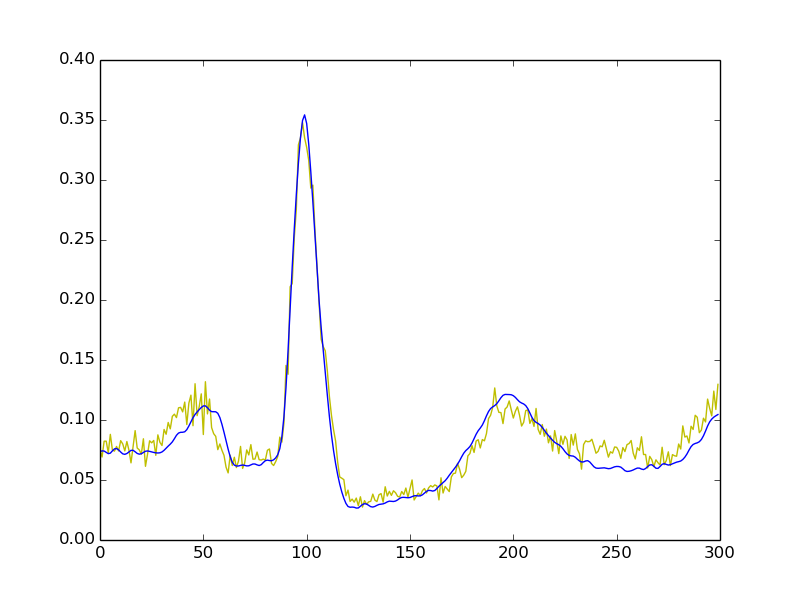
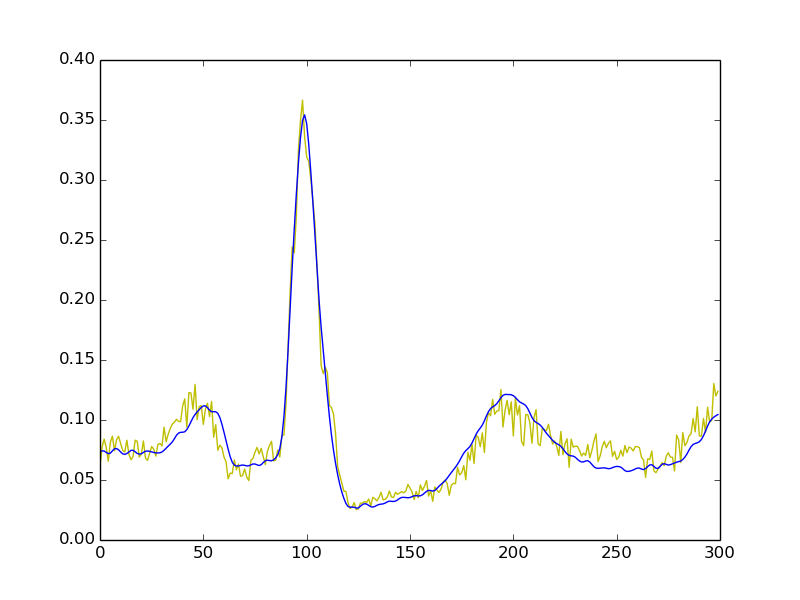
hidden 200

diff --git a/dA.py b/dA.py
@@ -327,7 +327,7 @@ def test_dA(learning_rate=0.01, training_epochs=200,
         theano_rng=theano_rng,
         input=x,
         n_visible=300,
-        n_hidden=100
+        n_hidden=200
     ) 
 
     cost, updates = da.get_cost_updates(
